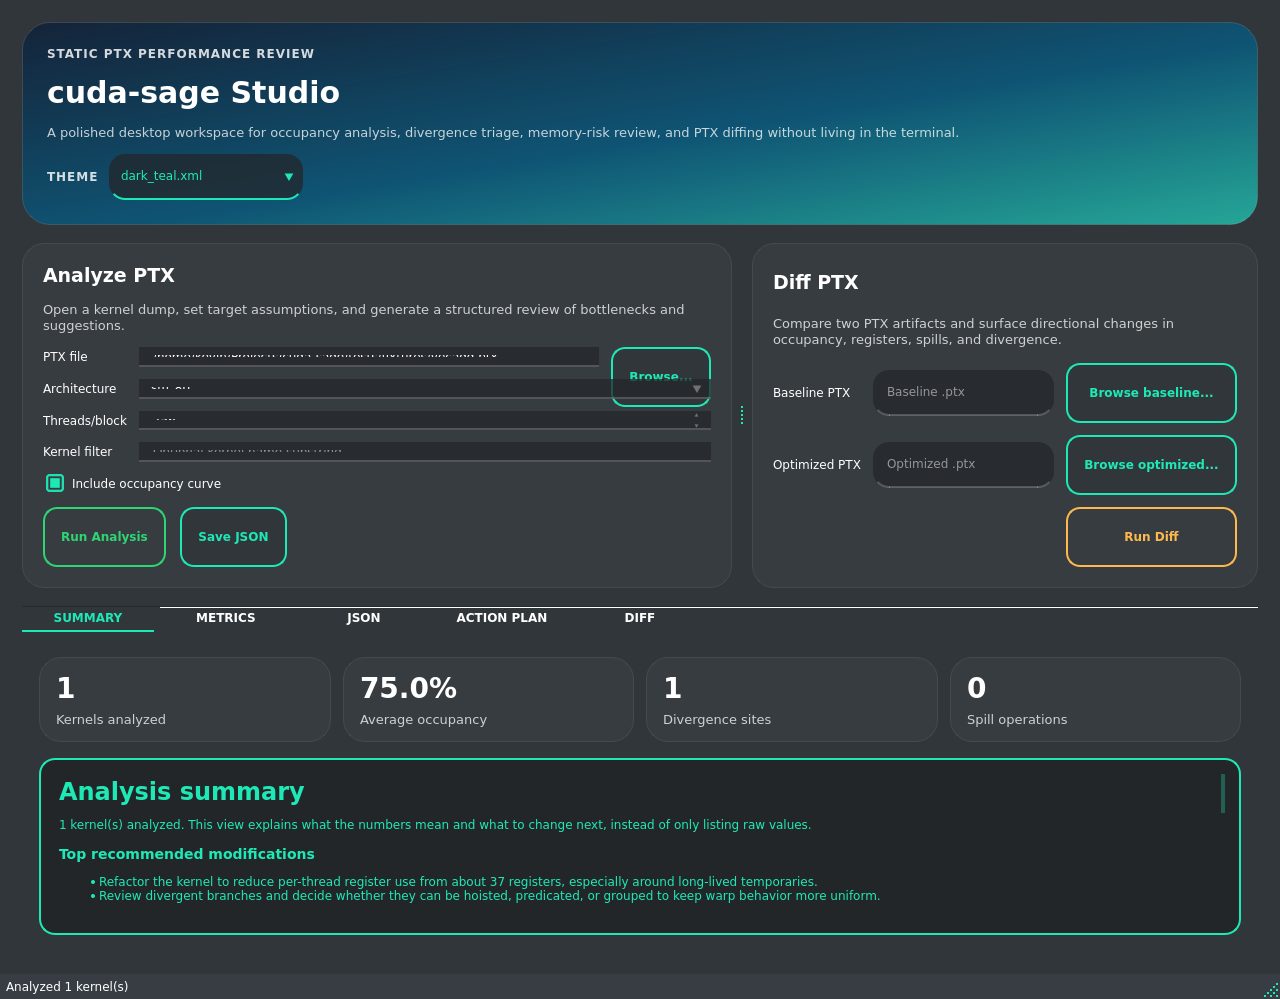
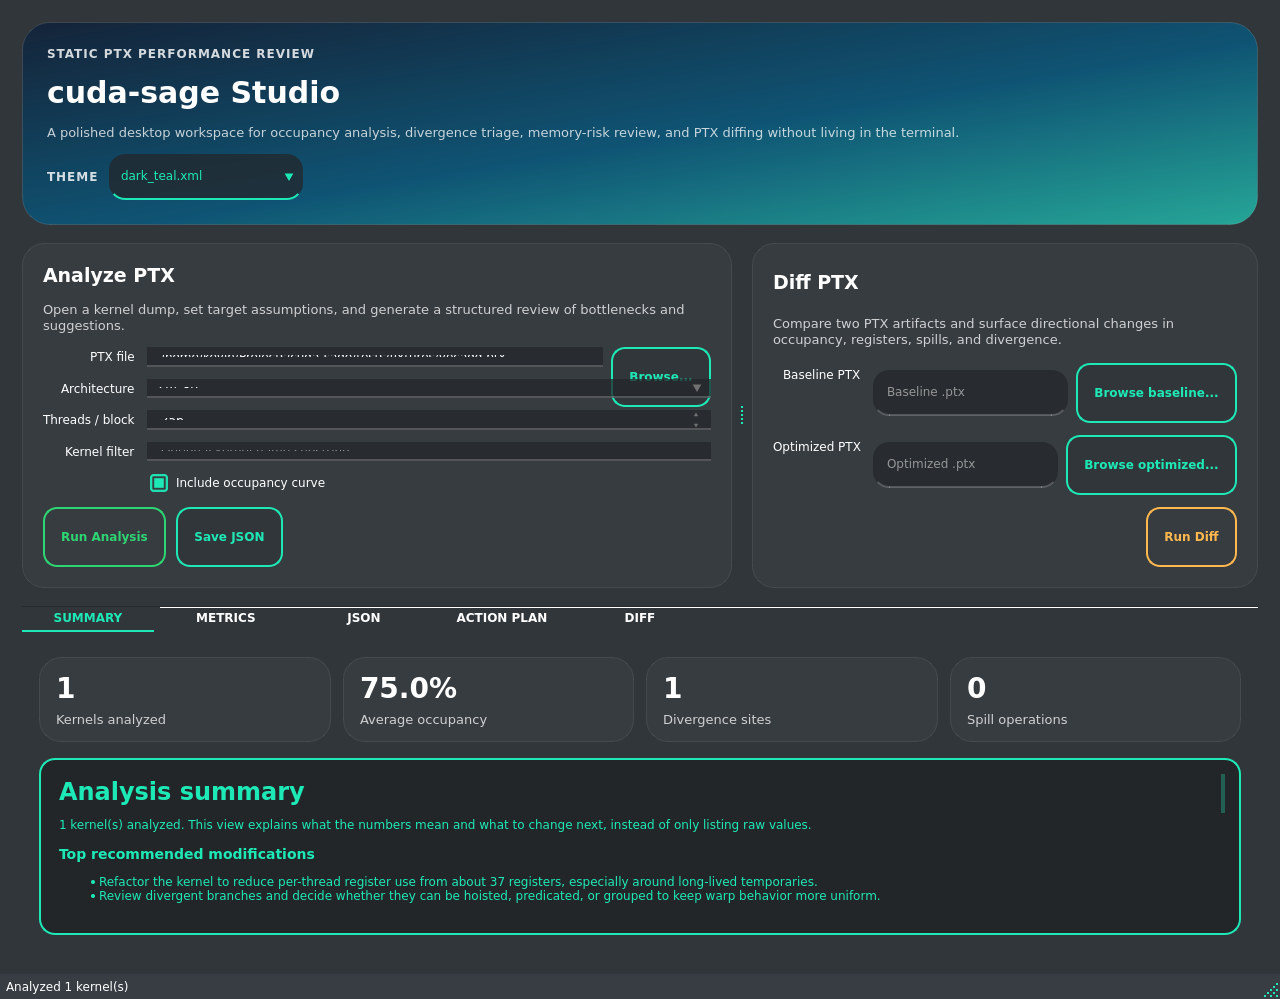
feat: enhance GUI with improved layout and accessibility features

diff --git a/src/cudasage/gui.py b/src/cudasage/gui.py
@@ -57,6 +57,7 @@ def _require_pyqt6() -> dict[str, object]:
             QComboBox,
             QFrame,
             QFileDialog,
+            QFormLayout,
             QGridLayout,
             QGroupBox,
             QHBoxLayout,
@@ -66,6 +67,7 @@ def _require_pyqt6() -> dict[str, object]:
             QMainWindow,
             QMessageBox,
             QPushButton,
+            QSizePolicy,
             QSplitter,
             QSpinBox,
             QTableWidget,
@@ -89,6 +91,7 @@ def _require_pyqt6() -> dict[str, object]:
         "QComboBox": QComboBox,
         "QFrame": QFrame,
         "QFileDialog": QFileDialog,
+        "QFormLayout": QFormLayout,
         "QGridLayout": QGridLayout,
         "QGroupBox": QGroupBox,
         "QHBoxLayout": QHBoxLayout,
@@ -98,6 +101,7 @@ def _require_pyqt6() -> dict[str, object]:
         "QMainWindow": QMainWindow,
         "QMessageBox": QMessageBox,
         "QPushButton": QPushButton,
+        "QSizePolicy": QSizePolicy,
         "QSplitter": QSplitter,
         "QSpinBox": QSpinBox,
         "QTableWidget": QTableWidget,
@@ -559,6 +563,7 @@ def main() -> None:
     QComboBox = qt["QComboBox"]
     QFrame = qt["QFrame"]
     QFileDialog = qt["QFileDialog"]
+    QFormLayout = qt["QFormLayout"]
     QGridLayout = qt["QGridLayout"]
     QGroupBox = qt["QGroupBox"]
     QHBoxLayout = qt["QHBoxLayout"]
@@ -568,6 +573,7 @@ def main() -> None:
     QMainWindow = qt["QMainWindow"]
     QMessageBox = qt["QMessageBox"]
     QPushButton = qt["QPushButton"]
+    QSizePolicy = qt["QSizePolicy"]
     QSplitter = qt["QSplitter"]
     QSpinBox = qt["QSpinBox"]
     QTableWidget = qt["QTableWidget"]
@@ -663,6 +669,9 @@ def main() -> None:
             theme_label = QLabel("Theme")
             theme_label.setObjectName("eyebrow")
             self.theme_combo = QComboBox()
+            self.theme_combo.setToolTip("Switch the application color theme. Requires qt-material to be installed.")
+            self.theme_combo.setAccessibleName("Color theme selector")
+            self.theme_combo.setMinimumWidth(180)
             self.theme_combo.addItems(self.available_themes)
             self.theme_combo.setCurrentText(self.current_theme)
             self.theme_combo.currentTextChanged.connect(self._change_theme)
@@ -684,16 +693,26 @@ def main() -> None:
                 "Analyze PTX",
                 "Open a kernel dump, set target assumptions, and generate a structured review of bottlenecks and suggestions.",
             )
-            analyze_form = QGridLayout()
-            analyze_form.setHorizontalSpacing(12)
-            analyze_form.setVerticalSpacing(12)
 
             self.ptx_path = QLineEdit()
             self.ptx_path.setPlaceholderText("Select a .ptx file to inspect")
+            self.ptx_path.setToolTip("Path to the PTX file to analyze. Use Browse to pick a file.")
+            self.ptx_path.setAccessibleName("PTX file path")
+
             pick_ptx_btn = QPushButton("Browse...")
+            pick_ptx_btn.setToolTip("Open a file-picker dialog to select a .ptx file (Alt+B).")
+            pick_ptx_btn.setAccessibleName("Browse PTX file")
+            pick_ptx_btn.setShortcut("Alt+B")
+            pick_ptx_btn.setMinimumHeight(40)
             pick_ptx_btn.clicked.connect(self._pick_ptx_file)
 
             self.arch_combo = QComboBox()
+            self.arch_combo.setToolTip("Target GPU architecture. Occupancy limits are read from this model.")
+            self.arch_combo.setAccessibleName("Target architecture")
+            self.arch_combo.setAccessibleDescription(
+                "Select the SM generation that matches the GPU the kernel will run on."
+            )
+            self.arch_combo.setMinimumWidth(180)
             for sm in sorted(ARCHITECTURES.keys()):
                 self.arch_combo.addItem(sm)
             self.arch_combo.setCurrentText("sm_80")
@@ -702,40 +721,79 @@ def main() -> None:
             self.threads_spin.setRange(1, 1024)
             self.threads_spin.setSingleStep(32)
             self.threads_spin.setValue(256)
+            self.threads_spin.setToolTip(
+                "Assumed threads per block for occupancy calculation. Common values: 128, 256, 512."
+            )
+            self.threads_spin.setAccessibleName("Threads per block")
+            self.threads_spin.setMinimumWidth(120)
 
             self.kernel_filter = QLineEdit()
             self.kernel_filter.setPlaceholderText("Optional kernel name substring")
+            self.kernel_filter.setToolTip("Filter results to kernels whose name contains this substring (case-sensitive).")
+            self.kernel_filter.setAccessibleName("Kernel filter")
+            self.kernel_filter.setAccessibleDescription("Leave empty to analyze all kernels in the file.")
 
             self.curve_box = QCheckBox("Include occupancy curve")
+            self.curve_box.setToolTip("Emit a CSV of occupancy vs. thread-count alongside the report.")
+            self.curve_box.setAccessibleName("Include occupancy curve")
 
             run_btn = QPushButton("Run Analysis")
             run_btn.setProperty("class", "success")
+            run_btn.setToolTip("Parse the selected PTX file and run all analyzers (Alt+R).")
+            run_btn.setAccessibleName("Run Analysis")
+            run_btn.setAccessibleDescription("Analyze the selected PTX file and populate all result tabs.")
+            run_btn.setShortcut("Alt+R")
+            run_btn.setMinimumHeight(40)
             run_btn.clicked.connect(self._run_analysis)
 
             save_json_btn = QPushButton("Save JSON")
+            save_json_btn.setToolTip("Export the current analysis results to a JSON file (Alt+S).")
+            save_json_btn.setAccessibleName("Save JSON")
+            save_json_btn.setShortcut("Alt+S")
+            save_json_btn.setMinimumHeight(40)
             save_json_btn.clicked.connect(self._save_json)
 
-            # 3-column grid: col 0 = fixed label, col 1 = stretching input, col 2 = fixed button
-            analyze_form.setColumnStretch(0, 0)
-            analyze_form.setColumnStretch(1, 1)
-            analyze_form.setColumnStretch(2, 0)
-            # Row 0: PTX file path + browse button
-            analyze_form.addWidget(QLabel("PTX file"), 0, 0)
-            analyze_form.addWidget(self.ptx_path, 0, 1)
-            analyze_form.addWidget(pick_ptx_btn, 0, 2)
-            # Row 1: Architecture (full input width)
-            analyze_form.addWidget(QLabel("Architecture"), 1, 0)
-            analyze_form.addWidget(self.arch_combo, 1, 1, 1, 2)
-            # Row 2: Threads/block (full input width)
-            analyze_form.addWidget(QLabel("Threads/block"), 2, 0)
-            analyze_form.addWidget(self.threads_spin, 2, 1, 1, 2)
-            # Row 3: Kernel filter (full input width)
-            analyze_form.addWidget(QLabel("Kernel filter"), 3, 0)
-            analyze_form.addWidget(self.kernel_filter, 3, 1, 1, 2)
-            # Row 4: occupancy curve checkbox spanning all columns
-            analyze_form.addWidget(self.curve_box, 4, 0, 1, 3)
+            # --- QFormLayout: the Qt standard for label-field pairs ---
+            # FieldGrowthPolicy.ExpandingFieldsGrow ensures every input
+            # stretches to fill available horizontal space, preventing the
+            # narrow/truncated dropdowns caused by manual column arithmetic.
+            analyze_form = QFormLayout()
+            analyze_form.setLabelAlignment(
+                Qt.AlignmentFlag.AlignRight | Qt.AlignmentFlag.AlignVCenter
+            )
+            analyze_form.setFieldGrowthPolicy(
+                QFormLayout.FieldGrowthPolicy.ExpandingFieldsGrow
+            )
+            analyze_form.setHorizontalSpacing(12)
+            analyze_form.setVerticalSpacing(12)
+
+            # PTX file row: path field + browse button side-by-side
+            ptx_row = QHBoxLayout()
+            ptx_row.setSpacing(8)
+            ptx_row.addWidget(self.ptx_path)
+            ptx_row.addWidget(pick_ptx_btn)
+            analyze_form.addRow("PTX file", ptx_row)
+
+            # Architecture combo - must expand to fill label column
+            self.arch_combo.setSizePolicy(
+                QSizePolicy.Policy.Expanding, QSizePolicy.Policy.Fixed
+            )
+            analyze_form.addRow("Architecture", self.arch_combo)
+
+            # Threads/block spinner - expand to fill
+            self.threads_spin.setSizePolicy(
+                QSizePolicy.Policy.Expanding, QSizePolicy.Policy.Fixed
+            )
+            analyze_form.addRow("Threads / block", self.threads_spin)
+
+            # Kernel filter - expand to fill
+            analyze_form.addRow("Kernel filter", self.kernel_filter)
+
+            # Checkbox - no label so it sits flush left
+            analyze_form.addRow("", self.curve_box)
 
             action_row = QHBoxLayout()
+            action_row.setSpacing(10)
             action_row.addWidget(run_btn)
             action_row.addWidget(save_json_btn)
             action_row.addStretch(1)
@@ -747,36 +805,66 @@ def main() -> None:
                 "Diff PTX",
                 "Compare two PTX artifacts and surface directional changes in occupancy, registers, spills, and divergence.",
             )
-            diff_layout = QGridLayout()
-            diff_layout.setHorizontalSpacing(12)
-            diff_layout.setVerticalSpacing(12)
 
             self.base_path = QLineEdit()
             self.base_path.setPlaceholderText("Baseline .ptx")
+            self.base_path.setToolTip("Path to the baseline (before-optimisation) PTX file.")
+            self.base_path.setAccessibleName("Baseline PTX path")
+
             base_btn = QPushButton("Browse baseline...")
+            base_btn.setToolTip("Open a file-picker dialog to select the baseline .ptx file.")
+            base_btn.setAccessibleName("Browse baseline PTX")
+            base_btn.setMinimumHeight(40)
             base_btn.clicked.connect(self._pick_baseline)
 
             self.opt_path = QLineEdit()
             self.opt_path.setPlaceholderText("Optimized .ptx")
+            self.opt_path.setToolTip("Path to the optimized (after-change) PTX file.")
+            self.opt_path.setAccessibleName("Optimized PTX path")
+
             opt_btn = QPushButton("Browse optimized...")
+            opt_btn.setToolTip("Open a file-picker dialog to select the optimized .ptx file.")
+            opt_btn.setAccessibleName("Browse optimized PTX")
+            opt_btn.setMinimumHeight(40)
             opt_btn.clicked.connect(self._pick_optimized)
 
             run_diff_btn = QPushButton("Run Diff")
             run_diff_btn.setProperty("class", "warning")
+            run_diff_btn.setToolTip("Compare the two PTX files and populate the Diff tab (Alt+D).")
+            run_diff_btn.setAccessibleName("Run Diff")
+            run_diff_btn.setShortcut("Alt+D")
+            run_diff_btn.setMinimumHeight(40)
             run_diff_btn.clicked.connect(self._run_diff)
 
-            # 3-column grid: col 0 = fixed label, col 1 = stretching path input, col 2 = fixed button
-            diff_layout.setColumnStretch(0, 0)
-            diff_layout.setColumnStretch(1, 1)
-            diff_layout.setColumnStretch(2, 0)
-            diff_layout.addWidget(QLabel("Baseline PTX"), 0, 0)
-            diff_layout.addWidget(self.base_path, 0, 1)
-            diff_layout.addWidget(base_btn, 0, 2)
-            diff_layout.addWidget(QLabel("Optimized PTX"), 1, 0)
-            diff_layout.addWidget(self.opt_path, 1, 1)
-            diff_layout.addWidget(opt_btn, 1, 2)
-            diff_layout.addWidget(run_diff_btn, 2, 2, 1, 1)
-            diff_layout_root.addLayout(diff_layout)
+            # QFormLayout guarantees labels align right and fields expand to fill
+            diff_form = QFormLayout()
+            diff_form.setLabelAlignment(
+                Qt.AlignmentFlag.AlignRight | Qt.AlignmentFlag.AlignVCenter
+            )
+            diff_form.setFieldGrowthPolicy(
+                QFormLayout.FieldGrowthPolicy.ExpandingFieldsGrow
+            )
+            diff_form.setHorizontalSpacing(12)
+            diff_form.setVerticalSpacing(12)
+
+            base_row = QHBoxLayout()
+            base_row.setSpacing(8)
+            base_row.addWidget(self.base_path)
+            base_row.addWidget(base_btn)
+            diff_form.addRow("Baseline PTX", base_row)
+
+            opt_row = QHBoxLayout()
+            opt_row.setSpacing(8)
+            opt_row.addWidget(self.opt_path)
+            opt_row.addWidget(opt_btn)
+            diff_form.addRow("Optimized PTX", opt_row)
+
+            run_diff_row = QHBoxLayout()
+            run_diff_row.addStretch(1)
+            run_diff_row.addWidget(run_diff_btn)
+            diff_form.addRow("", run_diff_row)
+
+            diff_layout_root.addLayout(diff_form)
 
             controls.addWidget(analyze_panel)
             controls.addWidget(diff_panel)
@@ -857,6 +945,14 @@ def main() -> None:
             layout.addWidget(hero)
             layout.addWidget(controls)
             layout.addWidget(self.tabs)
+
+            # --- Accessibility: logical tab order ---
+            # Follows reading order: PTX path -> Browse -> Arch -> Threads ->
+            # Filter -> Curve checkbox -> Run -> Save JSON -> tabs
+            self.setTabOrder(self.ptx_path, self.arch_combo)
+            self.setTabOrder(self.arch_combo, self.threads_spin)
+            self.setTabOrder(self.threads_spin, self.kernel_filter)
+            self.setTabOrder(self.kernel_filter, self.curve_box)
 
             self.statusBar().showMessage(
                 "Ready - open a PTX file to generate a styled desktop analysis report"
